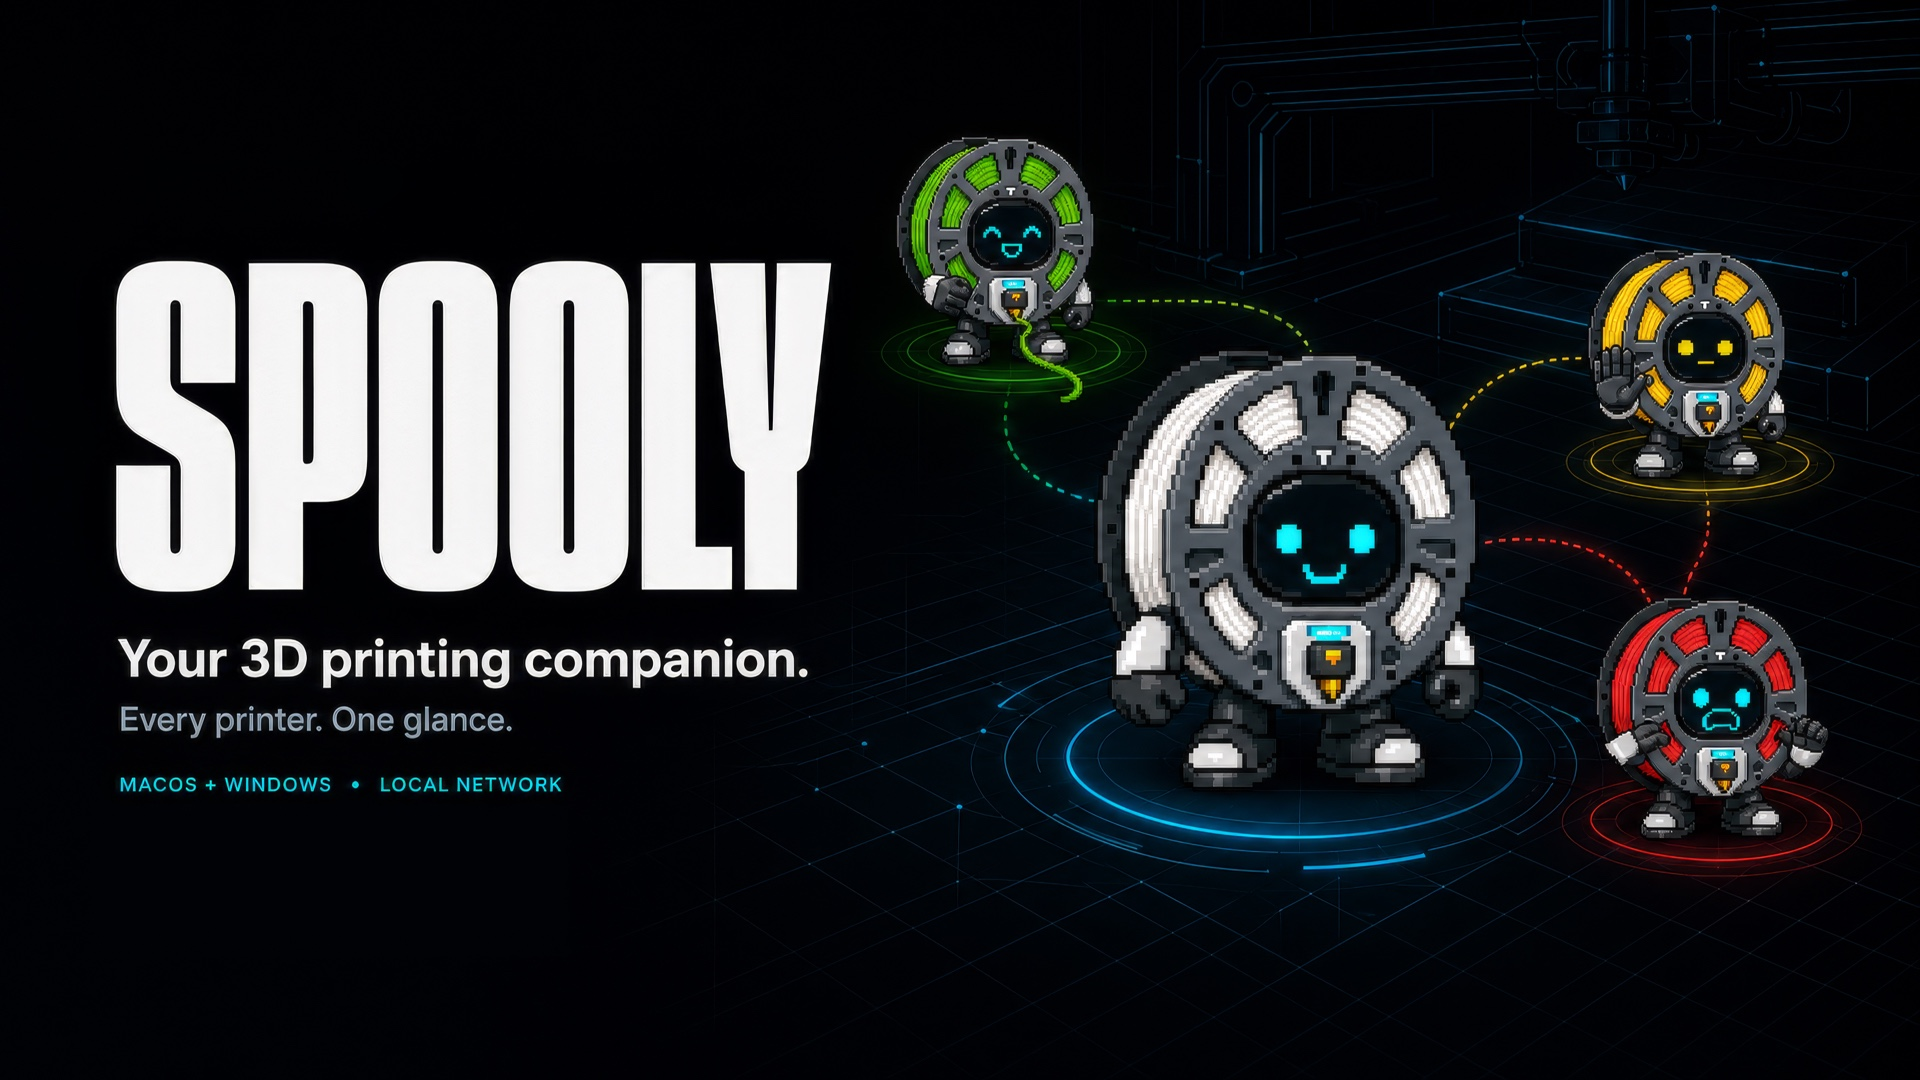
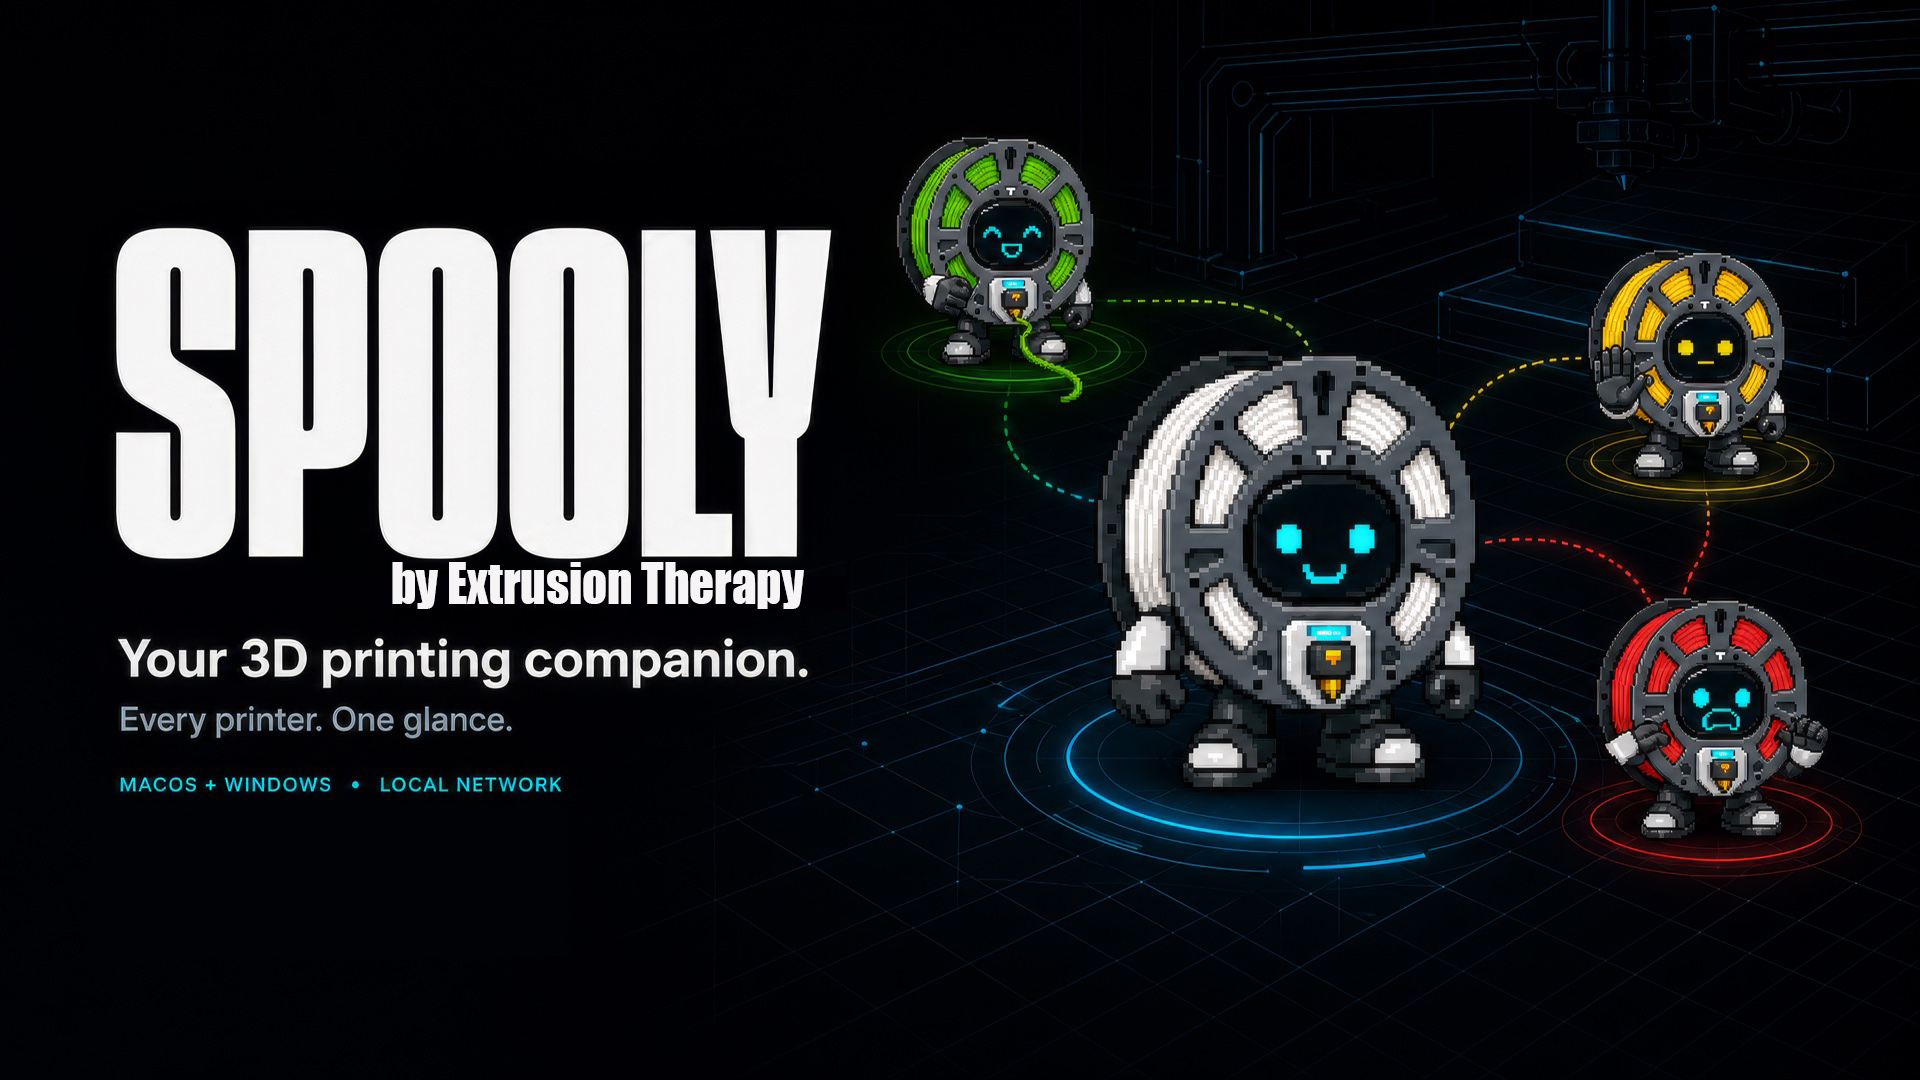
Brand Spooly as Spooly by Extrusion Therapy

diff --git a/README.md b/README.md
@@ -1,15 +1,15 @@
 <div align="center">
 
-# Spooly
+# Spooly by Extrusion Therapy
 
 ### A free desktop companion for your 3D printers
 
 [![Spooly watching multiple 3D printers](docs/assets/spooly-hero.jpg)](https://extrusiontherapy.com)
 
-[![Download for macOS](https://img.shields.io/badge/Download-macOS-111111?style=for-the-badge&logo=apple&logoColor=white)](https://github.com/rdcstout/Spooly/releases/latest/download/Spooly-macOS-arm64.dmg)
-[![Download for Windows](https://img.shields.io/badge/Download-Windows-0078D4?style=for-the-badge&logo=windows11&logoColor=white)](https://github.com/rdcstout/Spooly/releases/latest/download/Spooly-Setup-Windows-x64.exe)
+[![Download for macOS](https://img.shields.io/badge/Download-macOS-111111?style=for-the-badge&logo=apple&logoColor=white)](https://github.com/rdcstout/Spooly-by-Extrusion-Therapy/releases/latest/download/Spooly-macOS-arm64.dmg)
+[![Download for Windows](https://img.shields.io/badge/Download-Windows-0078D4?style=for-the-badge&logo=windows11&logoColor=white)](https://github.com/rdcstout/Spooly-by-Extrusion-Therapy/releases/latest/download/Spooly-Setup-Windows-x64.exe)
 
-[![Latest release](https://img.shields.io/github/v/release/rdcstout/Spooly?style=flat-square&label=latest%20release)](../../releases/latest)
+[![Latest release](https://img.shields.io/github/v/release/rdcstout/Spooly-by-Extrusion-Therapy?style=flat-square&label=latest%20release)](../../releases/latest)
 [![License: GPL v3](https://img.shields.io/badge/license-GPLv3-blue?style=flat-square)](LICENSE)
 [![Extrusion Therapy](https://img.shields.io/badge/Extrusion%20Therapy-website-d52b1e?style=flat-square)](https://extrusiontherapy.com)
 
@@ -19,8 +19,8 @@
 
 | Platform | System | Installer |
 | --- | --- | --- |
-| **macOS** | Apple silicon | **[Download `.dmg`](https://github.com/rdcstout/Spooly/releases/latest/download/Spooly-macOS-arm64.dmg)** |
-| **Windows** | 64-bit | **[Download installer `.exe`](https://github.com/rdcstout/Spooly/releases/latest/download/Spooly-Setup-Windows-x64.exe)** |
+| **macOS** | Apple silicon | **[Download `.dmg`](https://github.com/rdcstout/Spooly-by-Extrusion-Therapy/releases/latest/download/Spooly-macOS-arm64.dmg)** |
+| **Windows** | 64-bit | **[Download installer `.exe`](https://github.com/rdcstout/Spooly-by-Extrusion-Therapy/releases/latest/download/Spooly-Setup-Windows-x64.exe)** |
 
 Spooly is free. Downloads are never gated behind payment. You can also browse the [latest GitHub release](../../releases/latest).
 
